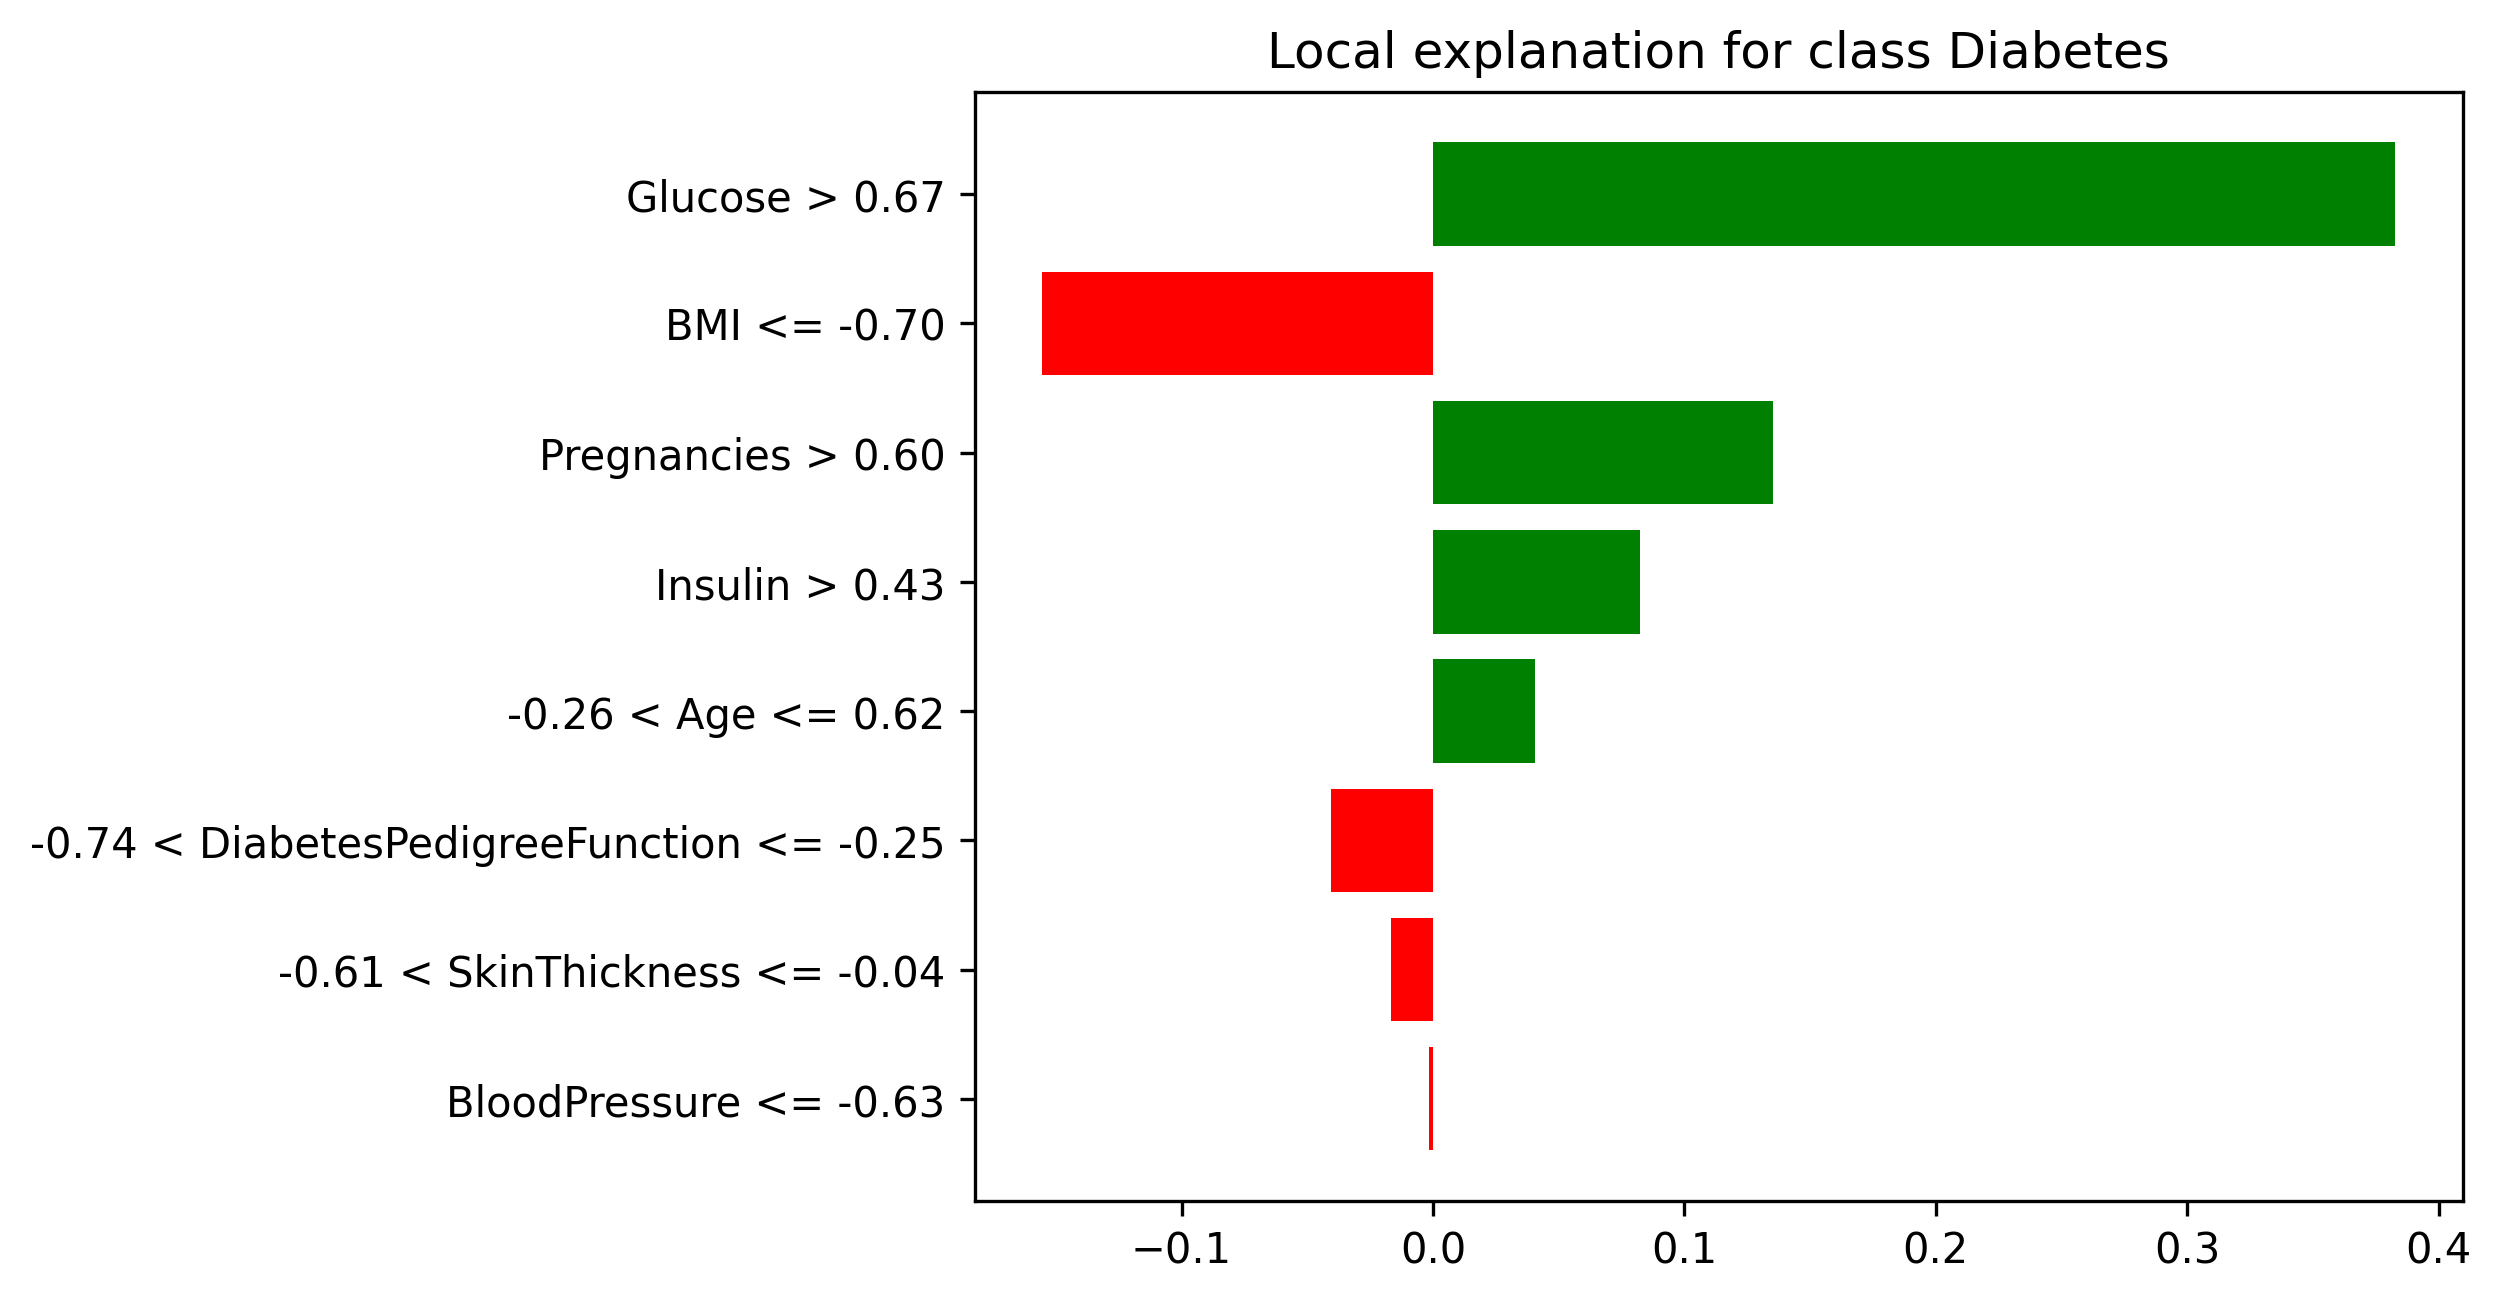
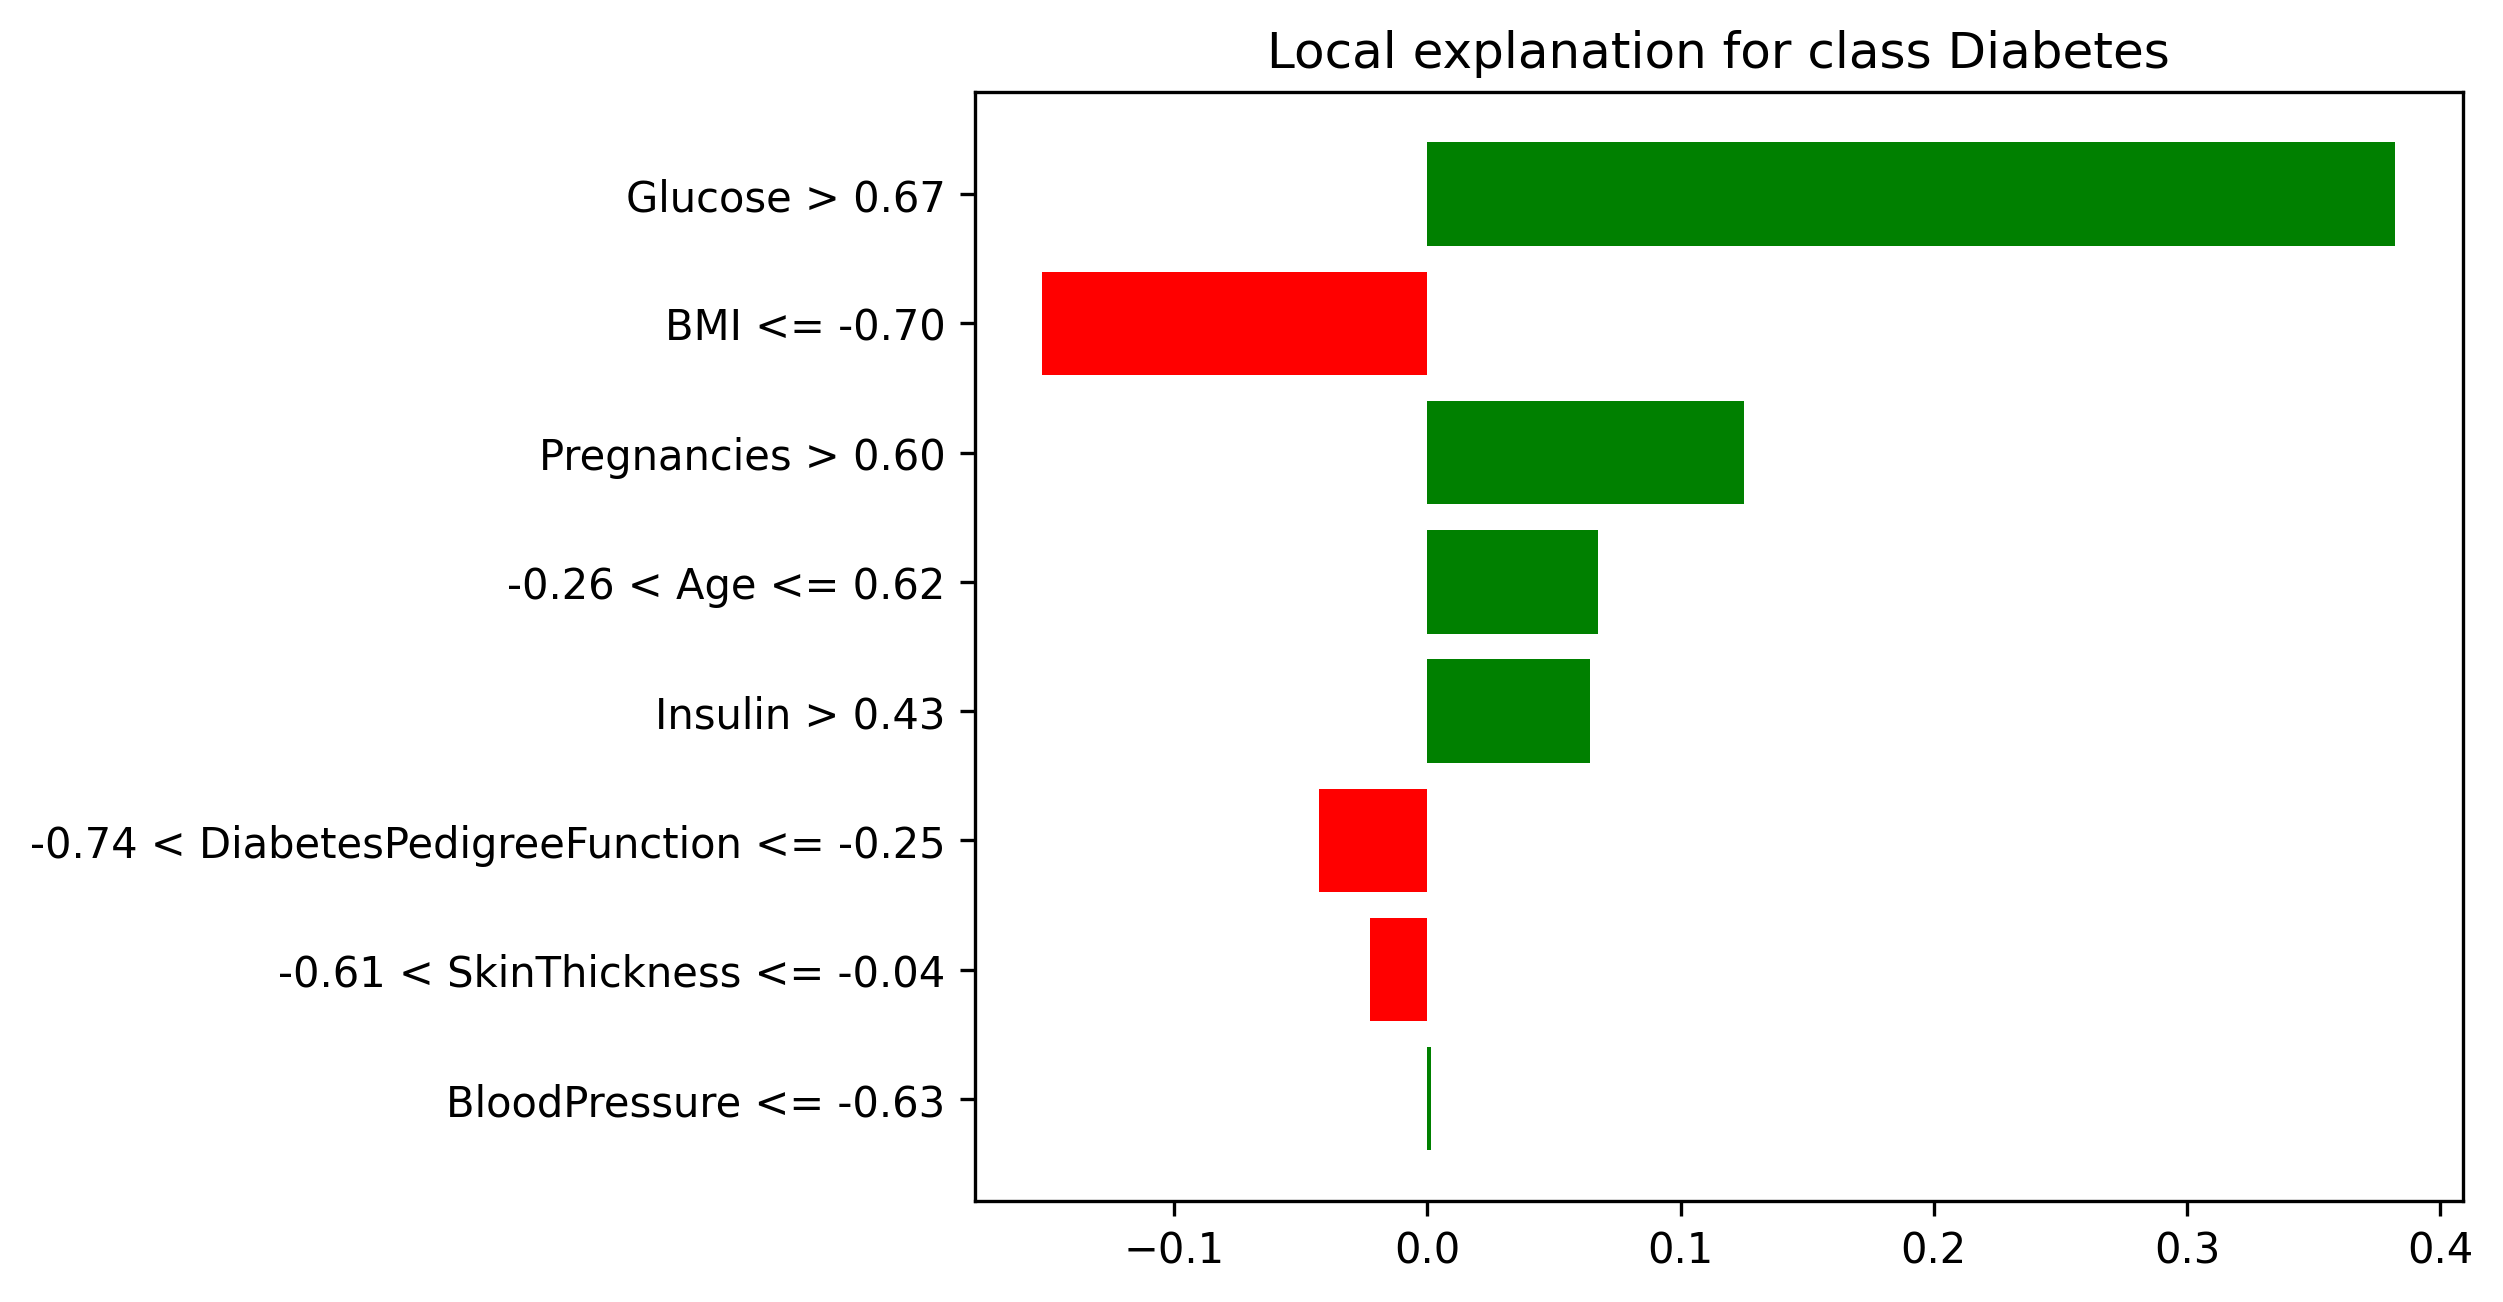
Added seed so results can be reproducible

diff --git a/results/lime/lime_report_multi-layer_perceptron.html b/results/lime/lime_report_multi-layer_perceptron.html
@@ -37089,10 +37089,10 @@
 /***/ })
 /******/ ]);
 //# sourceMappingURL=bundle.js.map </script></head><body>
-        <div class="lime top_div" id="top_divC1CQTP7M002UNIK"></div>
+        <div class="lime top_div" id="top_divNRC16W12N404L5D"></div>
         
         <script>
-        var top_div = d3.select('#top_divC1CQTP7M002UNIK').classed('lime top_div', true);
+        var top_div = d3.select('#top_divNRC16W12N404L5D').classed('lime top_div', true);
         
             var pp_div = top_div.append('div')
                                 .classed('lime predict_proba', true);
@@ -37104,10 +37104,10 @@
             var exp = new lime.Explanation(["No Diabetes", "Diabetes"]);
         
                 exp_div = top_div.append('div').classed('lime explanation', true);
-                exp.show([["Glucose > 0.67", 0.38273546911660217], ["BMI <= -0.70", -0.15535362098809077], ["Pregnancies > 0.60", 0.13539957490476265], ["Insulin > 0.43", 0.08243659955596143], ["-0.26 < Age <= 0.62", 0.04070499433650225], ["-0.74 < DiabetesPedigreeFunction <= -0.25", -0.040420364464618726], ["-0.61 < SkinThickness <= -0.04", -0.016666035529746586], ["BloodPressure <= -0.63", -0.0016461668560875354]], 1, exp_div);
+                exp.show([["Glucose > 0.67", 0.38221589477707807], ["BMI <= -0.70", -0.151974993674028], ["Pregnancies > 0.60", 0.12522049691768863], ["-0.26 < Age <= 0.62", 0.06731593835473565], ["Insulin > 0.43", 0.06443443604557013], ["-0.74 < DiabetesPedigreeFunction <= -0.25", -0.042824327429353895], ["-0.61 < SkinThickness <= -0.04", -0.022453421528268045], ["BloodPressure <= -0.63", 0.001566608380796471]], 1, exp_div);
                 
         var raw_div = top_div.append('div');
-            exp.show_raw_tabular([["Glucose", "1.07", 0.38273546911660217], ["BMI", "-0.84", -0.15535362098809077], ["Pregnancies", "0.90", 0.13539957490476265], ["Insulin", "0.62", 0.08243659955596143], ["Age", "0.53", 0.04070499433650225], ["DiabetesPedigreeFunction", "-0.63", -0.040420364464618726], ["SkinThickness", "-0.35", -0.016666035529746586], ["BloodPressure", "-0.72", -0.0016461668560875354]], 1, raw_div);
+            exp.show_raw_tabular([["Glucose", "1.07", 0.38221589477707807], ["BMI", "-0.84", -0.151974993674028], ["Pregnancies", "0.90", 0.12522049691768863], ["Age", "0.53", 0.06731593835473565], ["Insulin", "0.62", 0.06443443604557013], ["DiabetesPedigreeFunction", "-0.63", -0.042824327429353895], ["SkinThickness", "-0.35", -0.022453421528268045], ["BloodPressure", "-0.72", 0.001566608380796471]], 1, raw_div);
         
         </script>
         </body></html>

diff --git a/results/lime/lime_report_random_forest.html b/results/lime/lime_report_random_forest.html
@@ -37089,10 +37089,10 @@
 /***/ })
 /******/ ]);
 //# sourceMappingURL=bundle.js.map </script></head><body>
-        <div class="lime top_div" id="top_div6Z9VF0SRRW1YN0K"></div>
+        <div class="lime top_div" id="top_divGKN0ZIQ98JTILK4"></div>
         
         <script>
-        var top_div = d3.select('#top_div6Z9VF0SRRW1YN0K').classed('lime top_div', true);
+        var top_div = d3.select('#top_divGKN0ZIQ98JTILK4').classed('lime top_div', true);
         
             var pp_div = top_div.append('div')
                                 .classed('lime predict_proba', true);
@@ -37104,10 +37104,10 @@
             var exp = new lime.Explanation(["No Diabetes", "Diabetes"]);
         
                 exp_div = top_div.append('div').classed('lime explanation', true);
-                exp.show([["Glucose > 0.67", 0.24691329201404452], ["BMI <= -0.70", -0.15599450851486757], ["Insulin > 0.43", 0.07138257869691964], ["-0.26 < Age <= 0.62", 0.06969961255397718], ["Pregnancies > 0.60", 0.052549604065064426], ["BloodPressure <= -0.63", -0.02607023873151058], ["-0.74 < DiabetesPedigreeFunction <= -0.25", -0.01182789440938786], ["-0.61 < SkinThickness <= -0.04", 0.010974713196104637]], 1, exp_div);
+                exp.show([["Glucose > 0.67", 0.2527489695835662], ["BMI <= -0.70", -0.153757587527339], ["-0.26 < Age <= 0.62", 0.07290859109376877], ["Insulin > 0.43", 0.06080926731188429], ["Pregnancies > 0.60", 0.05238015898280603], ["BloodPressure <= -0.63", -0.025816094702450075], ["-0.74 < DiabetesPedigreeFunction <= -0.25", -0.007108010537156172], ["-0.61 < SkinThickness <= -0.04", 0.006876041026160323]], 1, exp_div);
                 
         var raw_div = top_div.append('div');
-            exp.show_raw_tabular([["Glucose", "1.07", 0.24691329201404452], ["BMI", "-0.84", -0.15599450851486757], ["Insulin", "0.62", 0.07138257869691964], ["Age", "0.53", 0.06969961255397718], ["Pregnancies", "0.90", 0.052549604065064426], ["BloodPressure", "-0.72", -0.02607023873151058], ["DiabetesPedigreeFunction", "-0.63", -0.01182789440938786], ["SkinThickness", "-0.35", 0.010974713196104637]], 1, raw_div);
+            exp.show_raw_tabular([["Glucose", "1.07", 0.2527489695835662], ["BMI", "-0.84", -0.153757587527339], ["Age", "0.53", 0.07290859109376877], ["Insulin", "0.62", 0.06080926731188429], ["Pregnancies", "0.90", 0.05238015898280603], ["BloodPressure", "-0.72", -0.025816094702450075], ["DiabetesPedigreeFunction", "-0.63", -0.007108010537156172], ["SkinThickness", "-0.35", 0.006876041026160323]], 1, raw_div);
         
         </script>
         </body></html>

diff --git a/src/interpretability.py b/src/interpretability.py
@@ -10,7 +10,7 @@ import shap
 import torch
 from matplotlib import pyplot as plt
 
-from models import MLP
+from models import MLP, set_seed
 
 logging.basicConfig(level=logging.INFO, format="%(message)s")
 logger = logging.getLogger(__name__)
@@ -45,6 +45,8 @@ def load_resources() -> tuple[object, MLP, pd.DataFrame, pd.DataFrame, list[str]
 def run_shap(model: object, x_test: pd.DataFrame, feature_names: list[str], name: str ="Random Forest") -> None:
     """Generate SHAP global feature importance plots."""
     logger.info(f"Generating SHAP explanations for {name}...")
+
+    np.random.default_rng(42)
 
     # SHAP for MLP
     if isinstance(model, torch.nn.Module):
@@ -88,6 +90,7 @@ def run_lime(
         feature_names=feature_names,
         class_names=["No Diabetes", "Diabetes"],
         mode="classification",
+        random_state=42,
     )
 
     # If model is MLP, define a prediction function
@@ -120,6 +123,7 @@ def run_lime(
     plt.close(fig)
 
 if __name__ == "__main__":
+    set_seed(42)
     rf, mlp, x_train, x_test, features = load_resources()
 
     # 1. Interpret Random Forest
